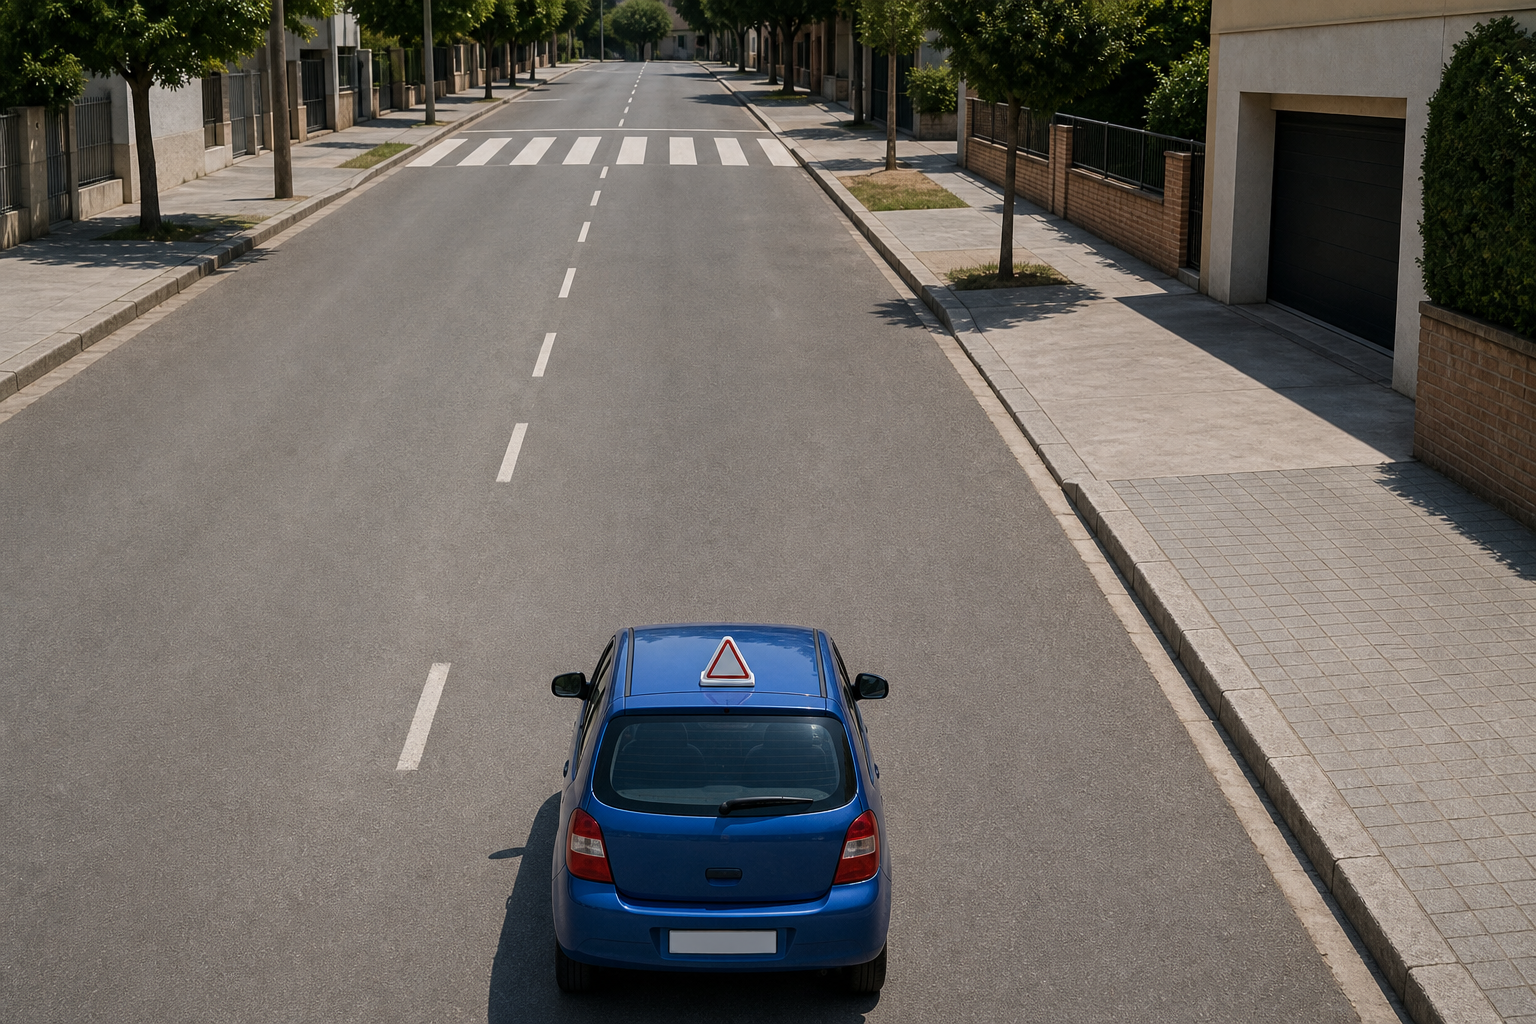
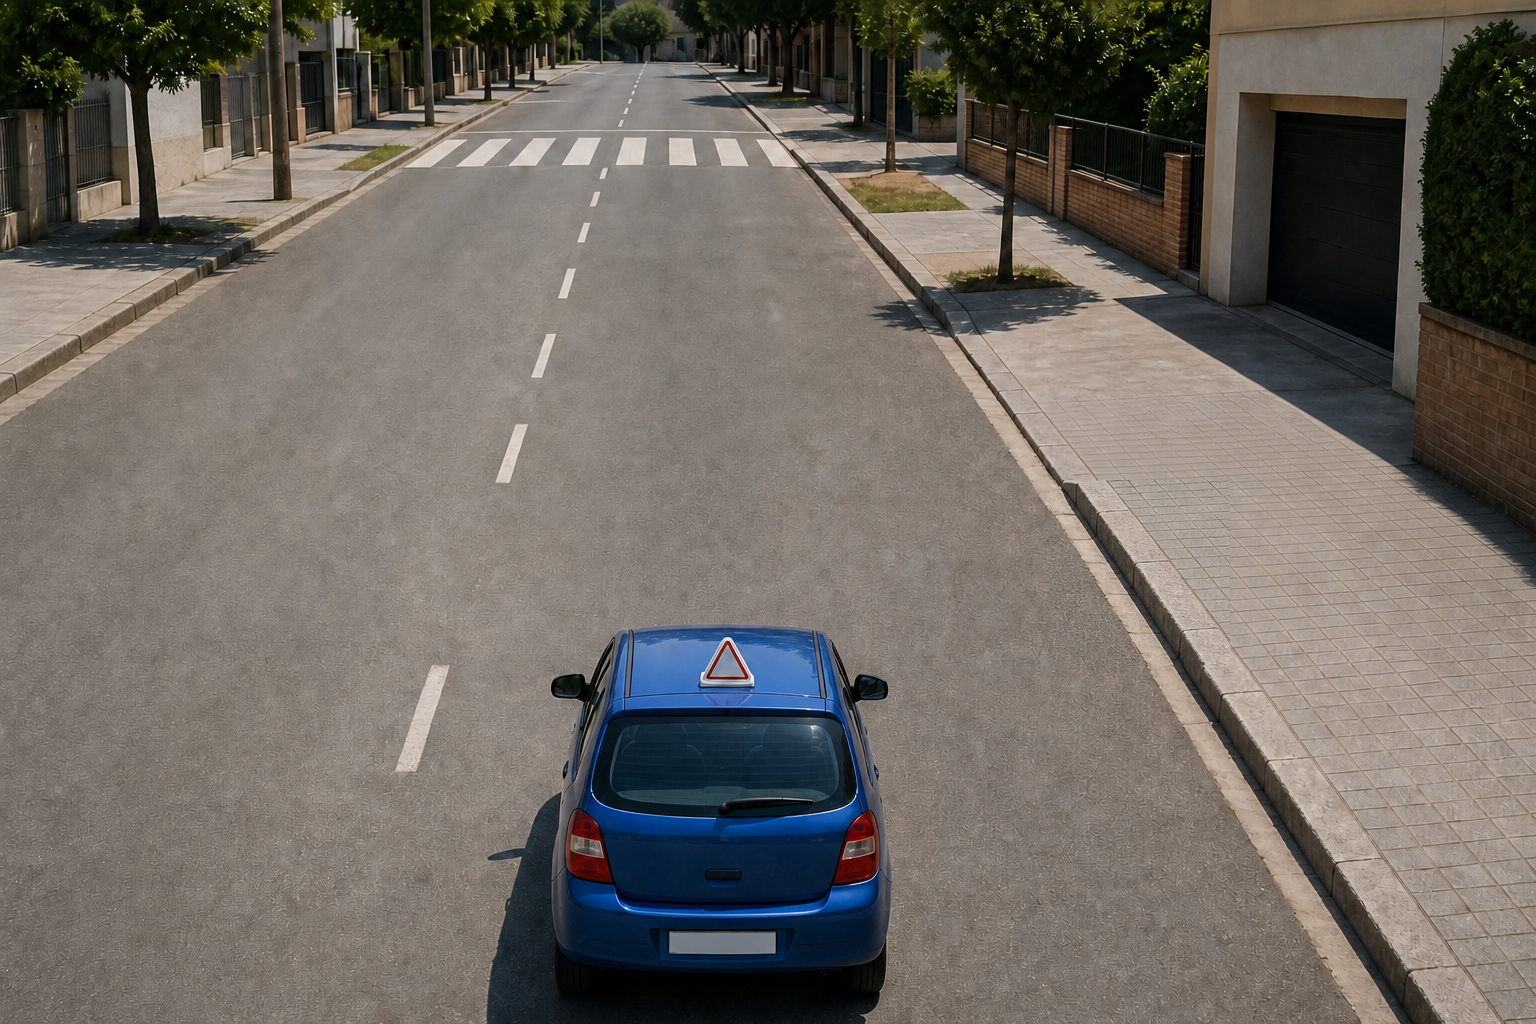
Regenerate the stopping scene around an unsigned vado on the right curb
The Make-a-Stop photo (same scene ID and filenames, in-place edit) now
reads: continuous raised curb from the frame bottom to a dropped vado
only at the garage driveway, no sign — blocking a vado is illegal
without one. All three candidate spots range along the right curb:
open curb ahead of the car (correct), the vado mouth (blocked access),
and the stretch by the crosswalk (crosswalk impingement). The signed
no-stopping template retired with the sign; stopping consolidates to
the single photo-grounded template, and the offline package hash picks
up the new asset at build time.

diff --git a/tests/manoeuvre-surfaces.test.js b/tests/manoeuvre-surfaces.test.js
@@ -45,8 +45,7 @@ test('manoeuvre surfaces expose only explicit stable IDs and named audited templ
       'curbside-safe-merge',
       'marked-bays-clear-entry',
       'curb-bays-clear-space',
-      'urban-curb-clear',
-      'no-stopping-curb-clear'
+      'urban-curb-clear'
     ]
   );
 
@@ -231,7 +230,9 @@ test('parking and voluntary-stop feedback trace the learner car into the accepte
           'parking route must bend through open road before entering the photographed gap');
       } else {
         const driveway = model.targets.find(target => target.feature === 'driveway');
-        assert.ok(!driveway || route.at(-1).y >= driveway.y + 18,
+        // 2026-08-12 scene regen: nominal separation is 19 with ±1.5 jitter on
+        // each spot, so 15 is the tightest guarantee that stays "clearly below".
+        assert.ok(!driveway || route.at(-1).y >= driveway.y + 15,
           'voluntary-stop route must finish clearly below the driveway');
       }
 
@@ -249,12 +250,12 @@ test('every urban-photo choice is anchored to its visible curb, driveway, crossi
     'clear-curb-bay': [72, 76, 35, 39],
     'crosswalk-bay': [41, 45, 13, 17],
     'no-parking-bay': [83, 87, 84, 88],
-    'clear-curb': [68.5, 72.5, 58, 62],
-    driveway: [82, 86, 35, 39],
-    crosswalk: [38, 42, 13, 17],
-    'clear-left-curb': [68.5, 72.5, 58, 62],
-    'no-stopping-curb': [70, 74, 35, 39],
-    'upper-crosswalk': [38, 42, 13, 17]
+    // 2026-08-12 scene regen: all stopping candidates range along the right
+    // curb — open curb before the vado, the garage vado, the pre-crosswalk
+    // stretch (bands = template anchor ±1.5 jitter).
+    'clear-curb': [73.5, 76.5, 60.5, 63.5],
+    driveway: [68.5, 71.5, 41.5, 44.5],
+    crosswalk: [57.5, 60.5, 20.5, 23.5]
   };
 
   for (const [action, surfaceId] of [['park', 'parking-v1'], ['voluntary-stop', 'stopping-v1']]) {
@@ -275,8 +276,7 @@ test('photo-backed physical features do not receive redundant crosswalk, drivewa
   for (const [action, surfaceId, templateId] of [
     ['park', 'parking-v1', 'marked-bays-clear-entry'],
     ['park', 'parking-v1', 'curb-bays-clear-space'],
-    ['voluntary-stop', 'stopping-v1', 'urban-curb-clear'],
-    ['voluntary-stop', 'stopping-v1', 'no-stopping-curb-clear']
+    ['voluntary-stop', 'stopping-v1', 'urban-curb-clear']
   ]) {
     const model = modelForTemplate(action, surfaceId, templateId);
     const markup = renderManoeuvreSurface(model, 'en');
@@ -410,7 +410,7 @@ test('reveal distinguishes correct and wrong selections without marking a correc
   assert.match(revealedCorrectButton, /aria-pressed="false"/);
 });
 
-test('parking and stopping templates render distinct audited prohibition signs', () => {
+test('parking renders its audited prohibition sign; stopping renders none', () => {
   const parking = modelForTemplate('park', 'parking-v1', 'curb-bays-clear-space');
   const parkingTarget = parking.targets.find(target => target.feature === 'no-parking-sign');
   assert.equal(parkingTarget.resultId, 'signed-no-parking');
@@ -425,18 +425,12 @@ test('parking and stopping templates render distinct audited prohibition signs',
   assert.match(parkingMarkup, /No-parking sign/);
   assert.doesNotMatch(parkingMarkup, /data-road-sign="no-stopping"/);
 
-  const stopping = modelForTemplate('voluntary-stop', 'stopping-v1', 'no-stopping-curb-clear');
-  const stoppingTarget = stopping.targets.find(target => target.feature === 'no-stopping-sign');
-  assert.equal(stoppingTarget.resultId, 'signed-no-stopping');
-  assert.equal(stoppingTarget.explanationKey, 'surface.restricted.noStoppingSign');
-  const stoppingMarkup = renderManoeuvreSurface(stopping, 'es', {
-    reveal: true,
-    selectedTargetId: stoppingTarget.id
-  });
-  assert.match(stoppingMarkup, /data-road-sign="no-stopping"/);
-  assert.equal((stoppingMarkup.match(/class="road-sign-prohibition"/g) ?? []).length, 2);
-  assert.match(stoppingMarkup, /Señal de prohibido parar/);
-  assert.doesNotMatch(stoppingMarkup, /data-road-sign="no-parking"/);
+  // The stopping scene lost its sign in the 2026-08-12 regen: blocking a vado
+  // is illegal without one, so no synthetic sign may be drawn over the photo.
+  const stopping = modelForTemplate('voluntary-stop', 'stopping-v1', 'urban-curb-clear');
+  const stoppingMarkup = renderManoeuvreSurface(stopping, 'es', { reveal: true });
+  assert.doesNotMatch(stoppingMarkup, /data-road-sign=/);
+  assert.ok(!stopping.targets.some(target => target.resultId === 'signed-no-stopping'));
 });
 
 test('every manoeuvre target exposes a non-empty, distinct, bilingual accessible name that never reveals the answer', () => {
@@ -467,7 +461,7 @@ test('road motion wraps every photo-backed manoeuvre scene with its calibrated t
     ['change-direction', 'u-turn-v1', 'clear-two-way-turnaround', 1.05, 50, 84],
     ['overtake', 'overtake-v1', 'clear-two-lane-pass', 1.18, 54, 86],
     ['park', 'parking-v1', 'curb-bays-clear-space', 1.06, 65, 84],
-    ['voluntary-stop', 'stopping-v1', 'no-stopping-curb-clear', 1.06, 66, 84]
+    ['voluntary-stop', 'stopping-v1', 'urban-curb-clear', 1.06, 66, 84]
   ];
 
   for (const [actionId, surfaceId, templateId, endScale, originX, originY] of cases) {
@@ -542,7 +536,7 @@ test('manoeuvre target styles preserve the target model dimensions and reveal st
 });
 
 test('stopping choices use car-sized vertical outlines inside their full touch targets', async () => {
-  const model = modelForTemplate('voluntary-stop', 'stopping-v1', 'no-stopping-curb-clear');
+  const model = modelForTemplate('voluntary-stop', 'stopping-v1', 'urban-curb-clear');
   const markup = renderManoeuvreSurface(model, 'en');
   for (const target of model.targets) {
     assert.match(targetButtonMarkup(markup, target.id), new RegExp(`data-feature="${target.feature}"`));

diff --git a/src/manoeuvre-surfaces.js b/src/manoeuvre-surfaces.js
@@ -137,33 +137,24 @@ export const MANOEUVRE_TEMPLATES = freezeTemplates({
       ]
     }
   ],
+  // One photo-grounded template (2026-08-12 scene regen): every candidate
+  // stopping spot ranges along the right curb — open curb ahead of the car,
+  // the garage vado (illegal even unsigned), and the stretch by the crosswalk.
+  // The signed-no-stopping variant retired with the sign; parking before a
+  // dropped curb is prohibited without one.
   'stopping-v1': [
     {
       id: 'urban-curb-clear',
       expectedResult: 'voluntary-stop',
       features: ['curb', 'driveway', 'crosswalk'],
       correctRoute: [
-        { x: 50, y: 74 }, { x: 55, y: 72 }, { x: 62, y: 68 },
-        { x: 66, y: 64 }, { x: 70.5, y: 60 }
+        { x: 50, y: 74 }, { x: 56, y: 72 }, { x: 63, y: 70 },
+        { x: 70, y: 66 }, { x: 75, y: 62 }
       ],
       targets: [
-        { id: 'clear-curb', resultId: 'voluntary-stop', kind: 'legal-stop', feature: 'clear-curb', x: 70.5, y: 60 },
-        { id: 'driveway', resultId: 'blocked-access', kind: 'restricted-stop', feature: 'driveway', explanationKey: 'surface.restricted.blockedAccess', x: 84, y: 37 },
-        { id: 'crosswalk', resultId: 'crosswalk', kind: 'restricted-stop', feature: 'crosswalk', explanationKey: 'surface.restricted.crosswalk', x: 40, y: 15 }
-      ]
-    },
-    {
-      id: 'no-stopping-curb-clear',
-      expectedResult: 'voluntary-stop',
-      features: ['curb', 'no-stopping-sign', 'crosswalk'],
-      correctRoute: [
-        { x: 50, y: 74 }, { x: 55, y: 72 }, { x: 62, y: 68 },
-        { x: 66, y: 64 }, { x: 70.5, y: 60 }
-      ],
-      targets: [
-        { id: 'clear-left-curb', resultId: 'voluntary-stop', kind: 'legal-stop', feature: 'clear-curb', x: 70.5, y: 60 },
-        { id: 'no-stopping-curb', resultId: 'signed-no-stopping', kind: 'restricted-stop', feature: 'no-stopping-sign', explanationKey: 'surface.restricted.noStoppingSign', x: 72, y: 37 },
-        { id: 'upper-crosswalk', resultId: 'crosswalk', kind: 'restricted-stop', feature: 'crosswalk', explanationKey: 'surface.restricted.crosswalk', x: 40, y: 15 }
+        { id: 'clear-curb', resultId: 'voluntary-stop', kind: 'legal-stop', feature: 'clear-curb', x: 75, y: 62 },
+        { id: 'driveway', resultId: 'blocked-access', kind: 'restricted-stop', feature: 'driveway', explanationKey: 'surface.restricted.blockedAccess', x: 70, y: 43 },
+        { id: 'crosswalk', resultId: 'crosswalk', kind: 'restricted-stop', feature: 'crosswalk', explanationKey: 'surface.restricted.crosswalk', x: 59, y: 22 }
       ]
     }
   ]

diff --git a/tests/post-answer-route-fixtures.test.js b/tests/post-answer-route-fixtures.test.js
@@ -172,5 +172,5 @@ test('stopping fixtures retain reviewed clear-curb routes across both templates 
     }
   }
 
-  assert.deepEqual([...templates].sort(), ['no-stopping-curb-clear', 'urban-curb-clear']);
+  assert.deepEqual([...templates].sort(), ['urban-curb-clear']);
 });
